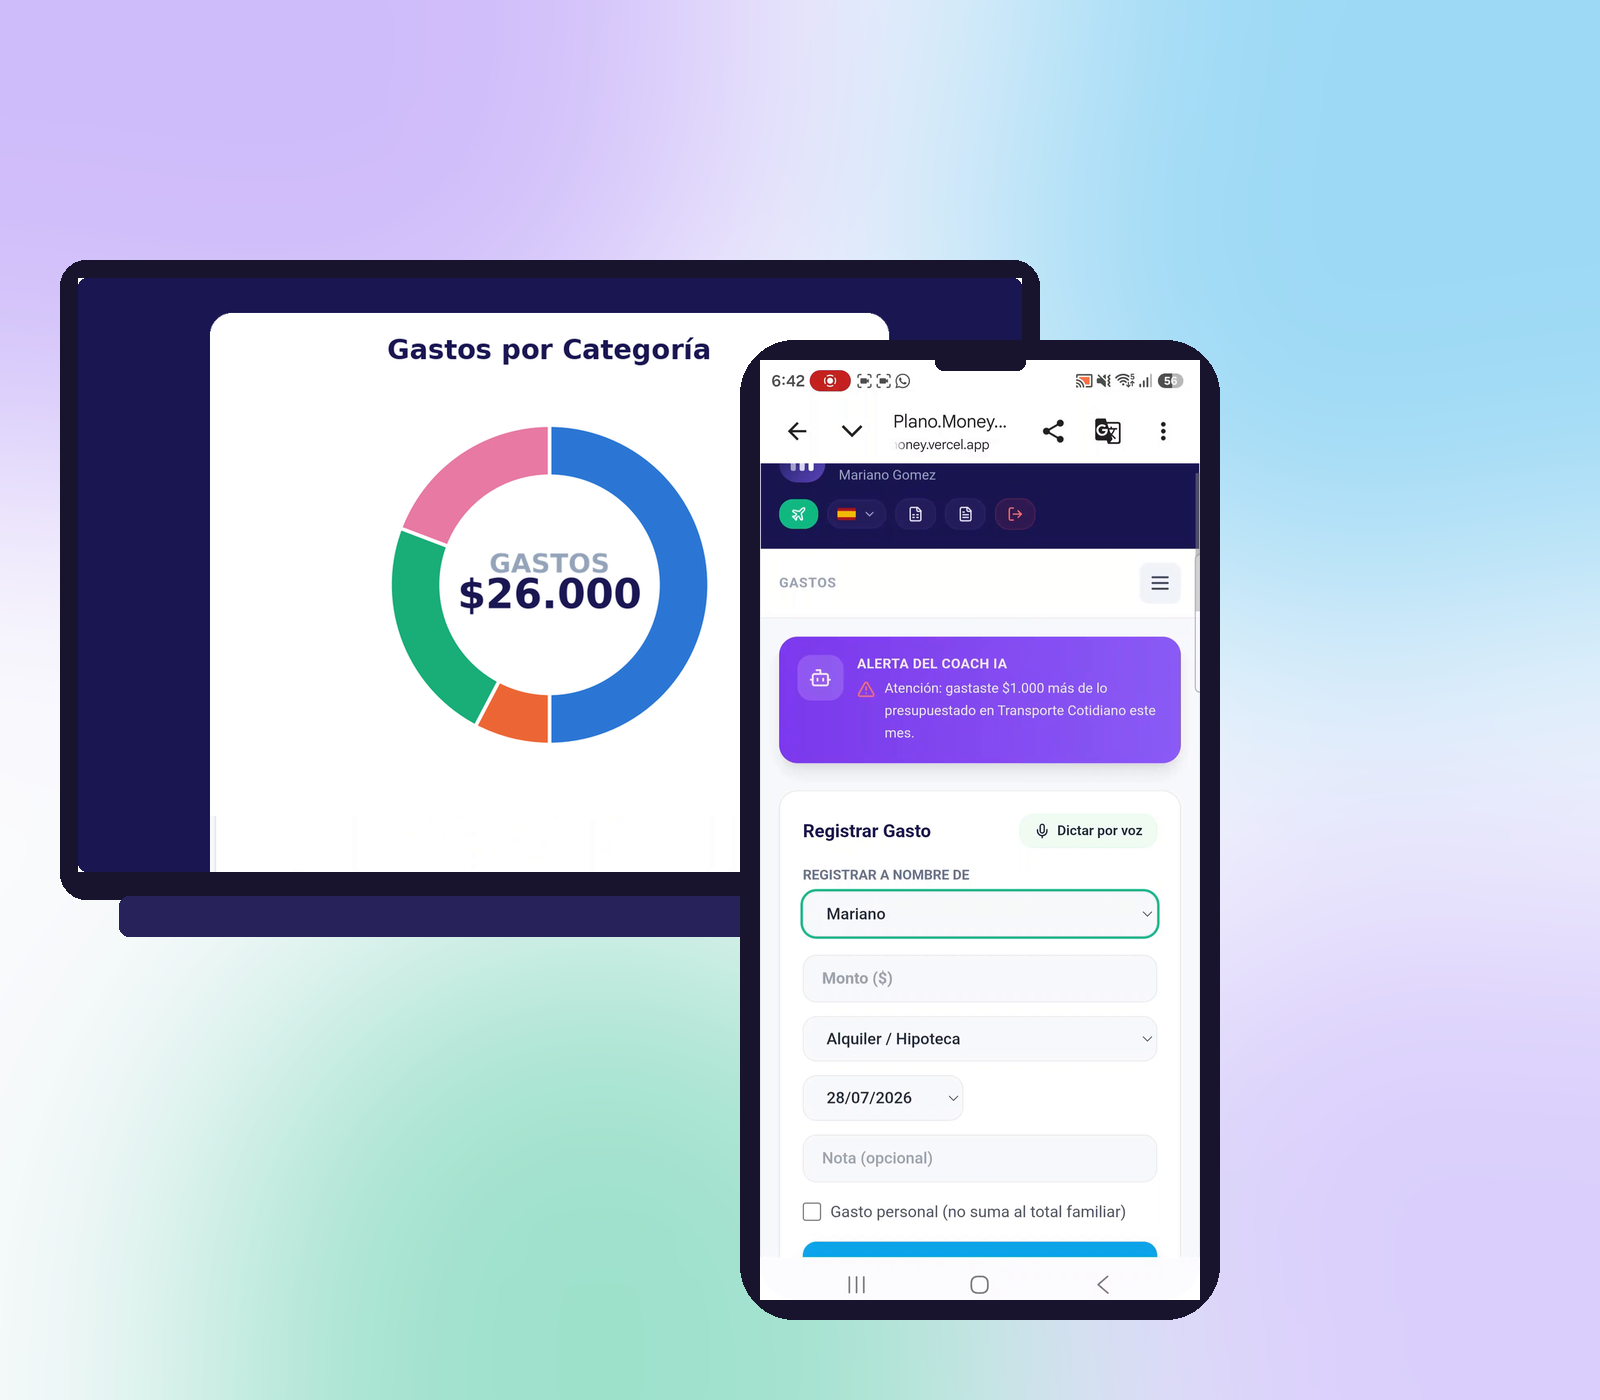
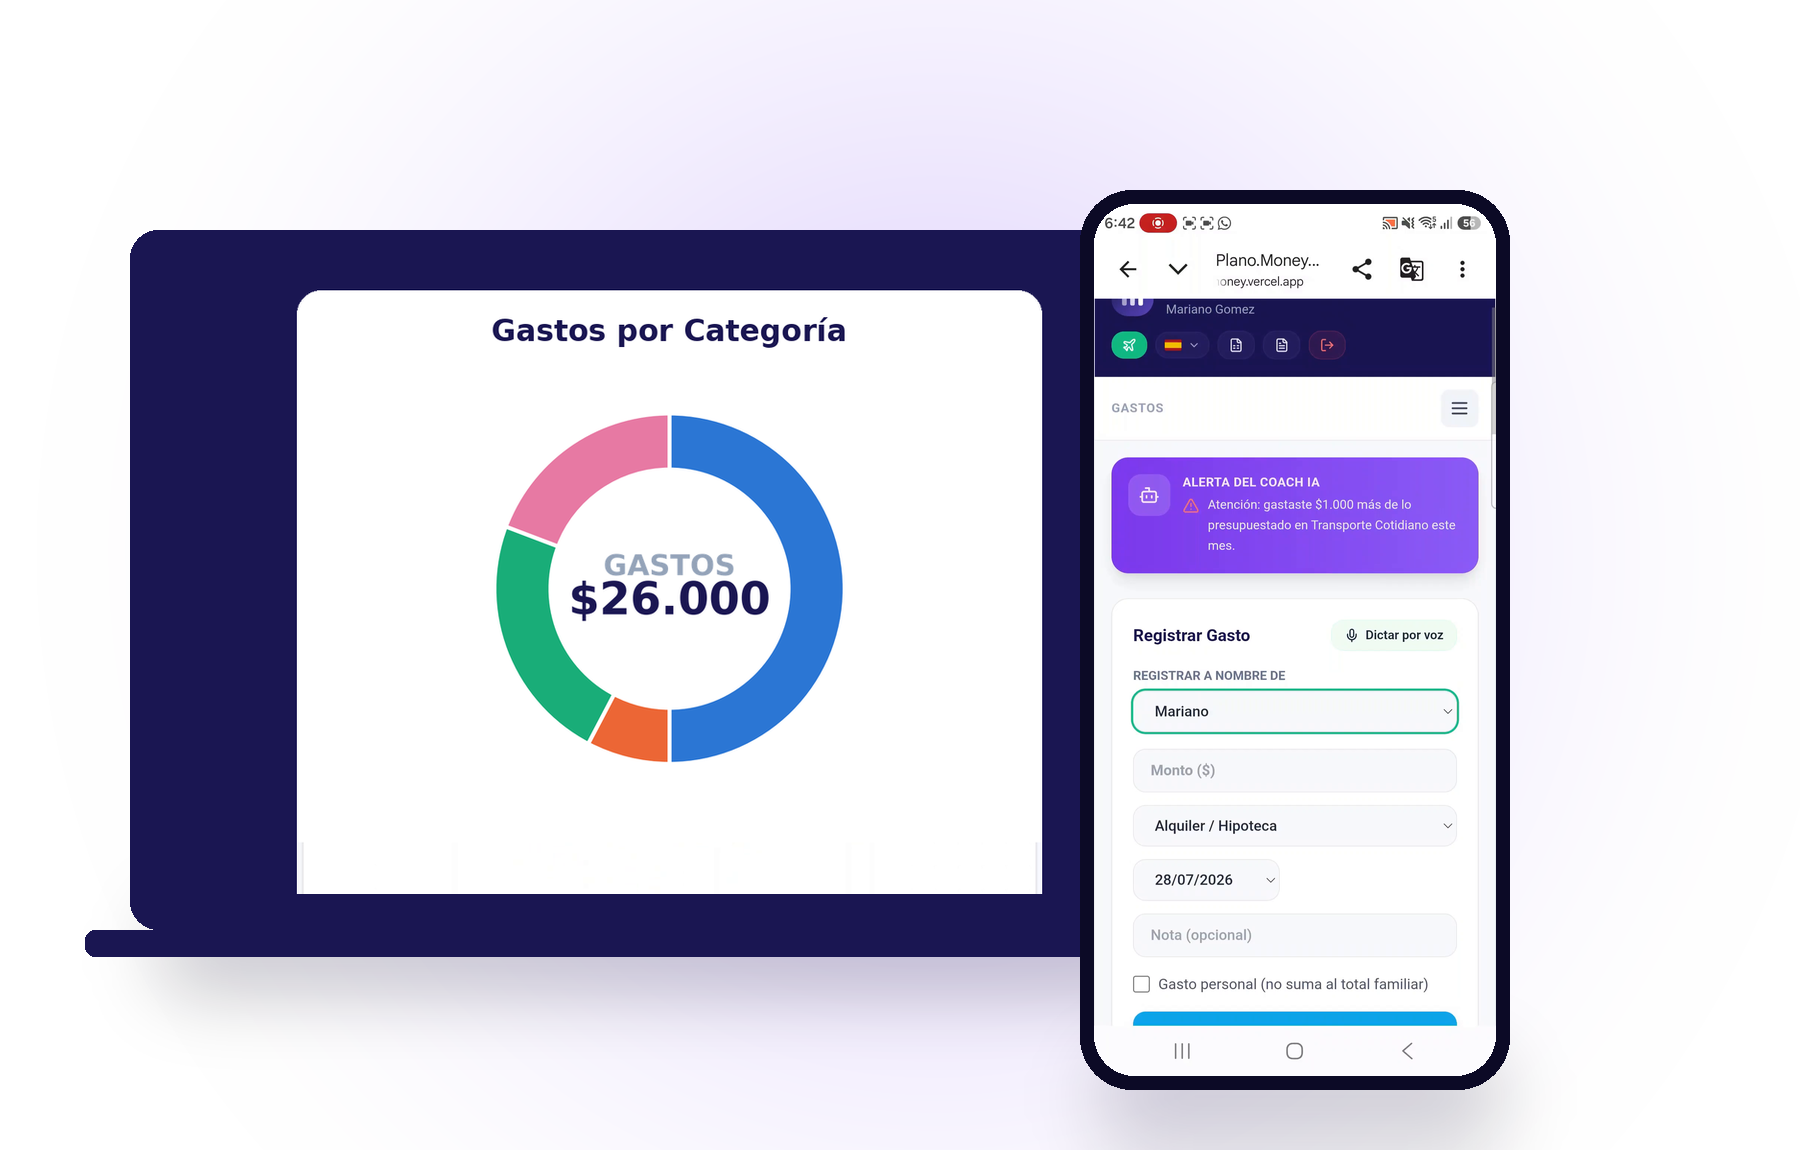
Rebuild /oferta to match the reference checkout design + design critique
Reorders sections to match the approved reference (built in Hotmart's basic
checkout builder) but with a much more polished, custom-coded look:
- Video moved way up (right after the hero mockup), with the new headline
  'Estás a un paso de transformar tus finanzas'.
- Bigger hero mockup: laptop + phone, white background, violet halo,
  regenerated from the real screen captures.
- Benefits rewritten as a short outcome-focused checklist instead of
  feature cards.
- Added the 4-item trust grid (Privacidad, Compra segura, Entrega por
  email, Contenido aprobado) and a second seal for the 7-day guarantee.
- A one-line, honest teaser about the order bump near the final CTA —
  the actual order bump itself only renders on Hotmart's real checkout.

Claude-Session: https://claude.ai/code/session_01MNeKKPnViqG5ZjgVQEQbJx

diff --git a/plano-money/src/pages/SalesPagePlanoMoney.jsx b/plano-money/src/pages/SalesPagePlanoMoney.jsx
@@ -1,24 +1,23 @@
-import { ShieldCheck, Zap, Smartphone, Users, Target, Mic, Star, Lock, Clock, Mail, BadgeCheck } from 'lucide-react'
+import { ShieldCheck, Zap, ShieldQuestion, Lock as LockIcon, Mail as MailIcon, BadgeCheck as BadgeCheckIcon, Star, Lock, Clock, Mail, BadgeCheck } from 'lucide-react'
 import Logo from '../components/Logo.jsx'
 
 // TODO: reemplazar por el link real del checkout de Hotmart (Plano.Money).
 const CHECKOUT_URL = 'https://pay.hotmart.com/P106882'
 
-const ICON_GRADIENTS = ['from-lila-500 to-accent-600', 'from-celeste-500 to-celeste-600', 'from-brand-500 to-brand-600']
-
 const BENEFITS = [
-  { icon: Users, title: 'Controlá los gastos de toda tu familia', text: 'Perfiles compartidos — cada uno ve lo que le corresponde, en un solo lugar.' },
-  { icon: Target, title: 'Definí metas y seguí tu progreso', text: 'Viajes, compras, ahorro — visualizá cuánto llevás cada semana.' },
-  { icon: Mic, title: 'Registrá gastos en segundos', text: 'Con voz, sin tipear. Anotás un gasto mientras hacés otra cosa.' },
-  { icon: Zap, title: 'Reportes automáticos', text: 'Sabés a dónde va tu plata sin armar una planilla vos mismo.' },
-  { icon: Smartphone, title: 'Acceso inmediato', text: 'Desde el celular, la compu o la tablet — apenas confirmás la compra.' },
-  { icon: ShieldCheck, title: 'Tus datos, protegidos', text: 'Infraestructura segura, la misma que usan bancos y fintechs.' },
+  'Saber exactamente cuánto dinero entra, cuánto sale y cuánto podés gastar.',
+  'Organizar tus finanzas personales, familiares o las de tu negocio en un solo lugar.',
+  'Administrar con tranquilidad incluso cuando tus ingresos cambian.',
+  'Planificar metas de ahorro, vacaciones y proyectos con mayor claridad.',
+  'Tomar mejores decisiones financieras todos los días.',
 ]
 
+const DOT_COLORS = ['bg-lila-500', 'bg-celeste-500', 'bg-brand-500']
+
 const TESTIMONIALS = [
-  { name: 'Mariana y Diego', role: 'Padres de familia', photo: '/testimonio-pareja.png', quote: 'Dejamos de pelear por los gastos. Ahora armamos el presupuesto juntos y hasta ahorramos para nuestras vacaciones.', accent: 'bg-lila-500' },
   { name: 'Carolina M.', role: 'Madre de familia', photo: '/testimonio-carolina.png', quote: 'Antes el dinero desaparecía antes de fin de mes. Ahora sé exactamente en qué se va, y empezamos un fondo para vacaciones.', accent: 'bg-celeste-500' },
   { name: 'Federico H.', role: 'Diseñador freelance', photo: '/testimonio-federico.png', quote: 'Mis ingresos cambian cada mes, pero con Plano.Money por fin puedo planear y ahorrar con confianza.', accent: 'bg-brand-500' },
+  { name: 'Mariana y Diego', role: 'Padres de familia', photo: '/testimonio-pareja.png', quote: 'Dejamos de pelear por los gastos. Ahora armamos el presupuesto juntos y hasta ahorramos para nuestras vacaciones.', accent: 'bg-lila-500' },
 ]
 
 const INCLUDES = [
@@ -30,10 +29,17 @@ const INCLUDES = [
   'Compatible con celular, tablet y computadora',
 ]
 
+const TRUST_GRID = [
+  { icon: ShieldQuestion, title: 'Privacidad', text: 'Tu información está 100% segura', color: 'text-lila-500' },
+  { icon: LockIcon, title: 'Compra segura', text: 'Ambiente seguro y autenticado', color: 'text-celeste-500' },
+  { icon: MailIcon, title: 'Entrega por email', text: 'Acceso al producto entregado por email', color: 'text-brand-500' },
+  { icon: BadgeCheckIcon, title: 'Contenido aprobado', text: '100% revisado y aprobado', color: 'text-lila-500' },
+]
+
 const SEALS = [
-  { icon: Lock, label: 'SSL', sublabel: 'Pago 100% seguro', gradient: 'from-lila-500 to-accent-600', ribbon: 'bg-lila-400' },
+  { icon: ShieldCheck, label: '100%', sublabel: 'Compra segura', gradient: 'from-brand-500 to-brand-600', ribbon: 'bg-brand-500/70' },
+  { icon: Clock, label: '7 DÍAS', sublabel: 'Garantía total', gradient: 'from-rose-500 to-red-600', ribbon: 'bg-rose-400' },
   { icon: Zap, label: '24/7', sublabel: 'Acceso inmediato', gradient: 'from-celeste-500 to-celeste-600', ribbon: 'bg-celeste-400' },
-  { icon: ShieldCheck, label: '7 DÍAS', sublabel: 'Garantía total', gradient: 'from-brand-500 to-brand-600', ribbon: 'bg-brand-500/70' },
   { icon: Star, label: 'TOP', sublabel: 'Recomendado', gradient: 'from-amber-400 to-amber-500', ribbon: 'bg-amber-300' },
 ]
 
@@ -74,10 +80,9 @@ export default function SalesPagePlanoMoney() {
       </div>
 
       {/* Hero */}
-      <section className="relative bg-gradient-to-b from-lila-50 via-celeste-50/40 to-white pt-10 pb-10 px-4 overflow-hidden">
+      <section className="relative bg-gradient-to-b from-lila-50 via-celeste-50/40 to-white pt-10 pb-6 px-4 overflow-hidden">
         <div className="absolute -top-20 -left-24 w-72 h-72 bg-lila-400/30 rounded-full blur-3xl -z-10" />
         <div className="absolute top-10 -right-20 w-72 h-72 bg-celeste-400/30 rounded-full blur-3xl -z-10" />
-        <div className="absolute bottom-0 left-1/3 w-64 h-64 bg-brand-500/20 rounded-full blur-3xl -z-10" />
 
         <div className="max-w-3xl mx-auto text-center space-y-5">
           <Logo className="w-14 h-14 mx-auto" />
@@ -88,7 +93,7 @@ export default function SalesPagePlanoMoney() {
             </span>
           </h1>
           <p className="text-slate-500 text-base sm:text-lg max-w-xl mx-auto">
-            Organizá tus gastos, compartilos con tu familia o llevá las cuentas de tu negocio — todo en un solo lugar, sin cálculos complicados.
+            Ya sea que administres tu hogar, compartas gastos con tu pareja, seas emprendedor o trabajes de forma independiente, vas a tener una visión clara de tu dinero — sin planillas complicadas ni cálculos difíciles.
           </p>
           <a
             href={CHECKOUT_URL}
@@ -98,23 +103,22 @@ export default function SalesPagePlanoMoney() {
           </a>
         </div>
 
-        {/* Device mockup */}
-        <div className="relative max-w-4xl mx-auto mt-10">
+        {/* Big device mockup */}
+        <div className="relative max-w-5xl mx-auto mt-8">
           <img
             src="/hero-mockup.png"
             alt="Plano.Money en laptop y celular"
-            className="w-full h-auto drop-shadow-2xl"
+            className="w-full h-auto"
           />
-        </div>
-
-        {/* Seals */}
-        <div className="max-w-2xl mx-auto mt-6 flex items-start justify-center gap-4 sm:gap-8 overflow-x-auto px-2">
-          {SEALS.map(s => <Seal key={s.label} {...s} />)}
         </div>
       </section>
 
-      {/* Video hero */}
-      <section className="max-w-2xl mx-auto px-4 py-14">
+      {/* Video, moved right up top per feedback: it's the strongest asset */}
+      <section className="max-w-2xl mx-auto px-4 pt-4 pb-14 text-center">
+        <h2 className="text-2xl sm:text-3xl font-black text-navy-900">Estás a un paso de transformar tus finanzas</h2>
+        <p className="text-slate-500 text-sm sm:text-base max-w-lg mx-auto mt-2 mb-6">
+          Descubrí en menos de 2 minutos cómo Plano.Money te ayuda a organizar ingresos, controlar gastos y alcanzar tus metas.
+        </p>
         <div className="rounded-3xl overflow-hidden shadow-2xl shadow-accent-600/20 border-4 border-white ring-1 ring-slate-200 bg-navy-900">
           <video
             src="/demo-plano-money.mp4"
@@ -125,21 +129,17 @@ export default function SalesPagePlanoMoney() {
             className="w-full max-h-[80vh] mx-auto block"
           />
         </div>
-        <p className="text-center text-xs text-slate-400 mt-3">Así es Plano.Money en la vida real — sin actuación, así lo usás vos.</p>
       </section>
 
-      {/* Benefits */}
+      {/* Benefits — outcome checklist */}
       <section className="bg-gradient-to-br from-celeste-50 via-white to-lila-50 py-14 px-4">
-        <div className="max-w-4xl mx-auto space-y-8">
+        <div className="max-w-2xl mx-auto space-y-8">
           <h2 className="text-2xl sm:text-3xl font-black text-navy-900 text-center">¿Qué vas a lograr con Plano.Money?</h2>
-          <div className="grid sm:grid-cols-2 lg:grid-cols-3 gap-4">
-            {BENEFITS.map(({ icon: Icon, title, text }, i) => (
-              <div key={title} className="p-5 rounded-2xl border border-slate-200 bg-white space-y-2 shadow-sm">
-                <div className={`w-11 h-11 rounded-xl bg-gradient-to-br ${ICON_GRADIENTS[i % ICON_GRADIENTS.length]} flex items-center justify-center`}>
-                  <Icon className="w-5 h-5 text-white" />
-                </div>
-                <p className="font-bold text-navy-900 text-sm">{title}</p>
-                <p className="text-xs text-slate-500">{text}</p>
+          <div className="bg-white rounded-2xl border border-slate-200 shadow-sm p-6 sm:p-8 space-y-5">
+            {BENEFITS.map((b, i) => (
+              <div key={b} className="flex items-start gap-3">
+                <span className={`w-2.5 h-2.5 rounded-full mt-2 shrink-0 ${DOT_COLORS[i % DOT_COLORS.length]}`} />
+                <p className="text-sm sm:text-base text-slate-700">{b}</p>
               </div>
             ))}
           </div>
@@ -188,6 +188,23 @@ export default function SalesPagePlanoMoney() {
         </div>
       </section>
 
+      {/* Trust grid */}
+      <section className="py-14 px-4 bg-white">
+        <div className="max-w-2xl mx-auto space-y-6">
+          <div className="grid sm:grid-cols-2 gap-4">
+            {TRUST_GRID.map(({ icon: Icon, title, text, color }) => (
+              <div key={title} className="bg-slate-50 border border-slate-200 rounded-2xl p-5 flex items-start gap-3">
+                <Icon className={`w-6 h-6 shrink-0 ${color}`} />
+                <div>
+                  <p className="font-bold text-navy-900 text-sm">{title}</p>
+                  <p className="text-xs text-slate-500">{text}</p>
+                </div>
+              </div>
+            ))}
+          </div>
+        </div>
+      </section>
+
       {/* Guarantee + CTA */}
       <section className="py-14 px-4 relative overflow-hidden">
         <div className="absolute top-1/2 left-1/2 -translate-x-1/2 -translate-y-1/2 w-[36rem] h-[36rem] bg-gradient-to-br from-lila-300/20 via-accent-400/20 to-celeste-300/20 rounded-full blur-3xl -z-10" />
@@ -212,11 +229,17 @@ export default function SalesPagePlanoMoney() {
             >
               Empezar ahora →
             </a>
+            <p className="relative text-white/50 text-[11px]">🎁 En el siguiente paso vas a poder sumar contenido extra con descuento especial.</p>
             <div className="relative flex items-center justify-center gap-4 text-white/50 text-[11px] pt-1">
               <span className="flex items-center gap-1"><Lock className="w-3.5 h-3.5" /> Pago seguro</span>
               <span className="flex items-center gap-1"><Clock className="w-3.5 h-3.5" /> Acceso inmediato</span>
               <span className="flex items-center gap-1"><Mail className="w-3.5 h-3.5" /> Soporte por mail</span>
             </div>
+          </div>
+
+          {/* Seals */}
+          <div className="flex items-start justify-center gap-4 sm:gap-8 overflow-x-auto px-2 pt-2">
+            {SEALS.map(s => <Seal key={s.label} {...s} />)}
           </div>
         </div>
       </section>
